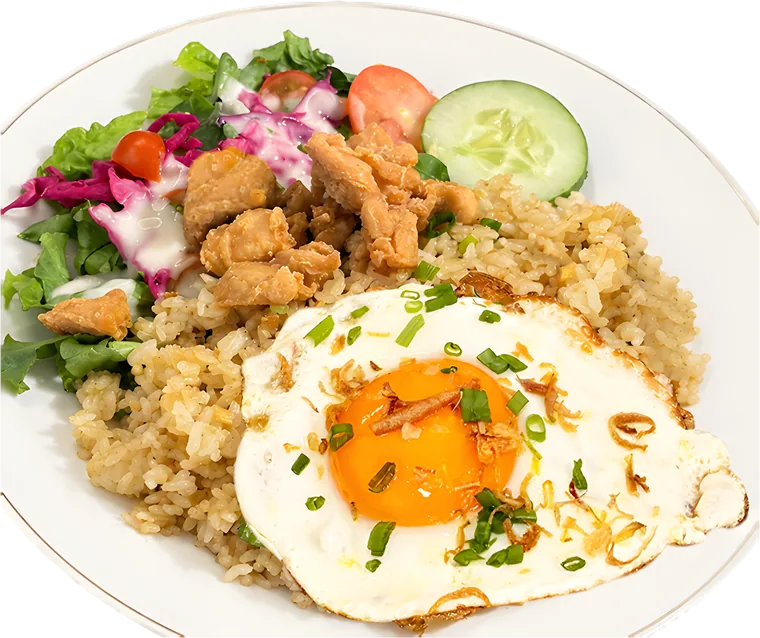
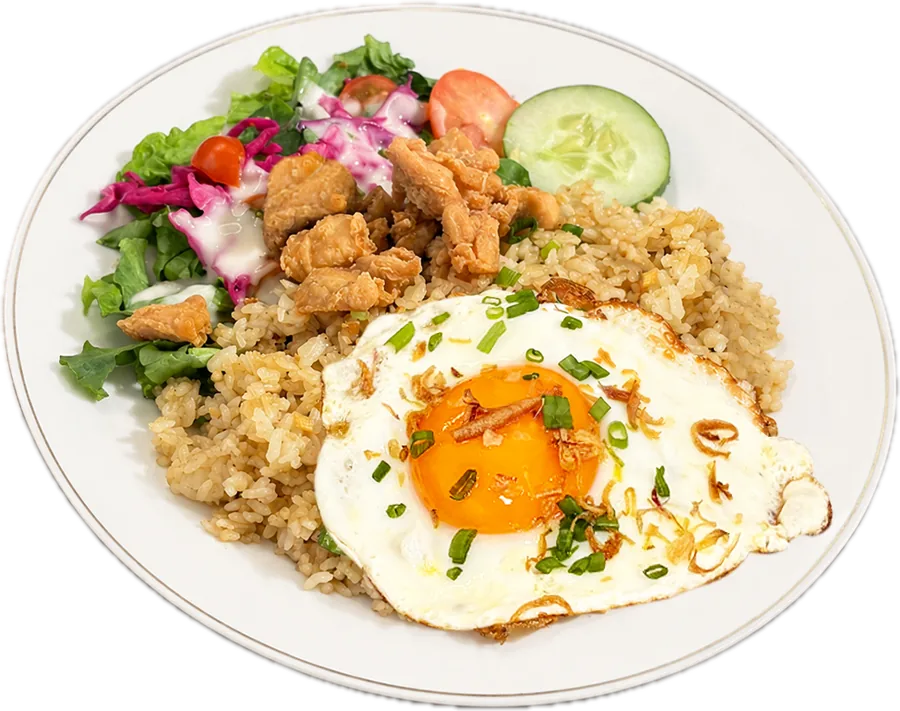
Foto produk baru dengan latar dihapus
14 foto produk baru dan Easy-Nasgor versi revisi, dipotong dari foto asli dan disimpan sebagai WebP beralfa. 22 dari 40 produk sekarang punya foto.

Simpanan lama di browser diisi fotonya satu kali lewat fillPhotos(), tanpa menimpa foto unggahan admin.

diff --git a/src/store.ts b/src/store.ts
@@ -66,6 +66,12 @@ const rupiah = (p: string) => Math.round(parseFloat(p.replace(',', '.')) * 1000)
 const PHOTO: Record<string, [string, Mat]> = {
   'Coffee Cloud': ['p-coffee-cloud', 'green'], 'Oolong Cloud': ['p-oolong-cloud', 'concrete'], 'RTD Decaf': ['p-rtd-decaf', 'steel'], 'Sunset Soother': ['p-rtd-sunset', 'steel'],
   'Easy-Nasgor': ['c-easy-nasgor', 'steel'], 'Beef-Sando': ['c-beef-sando', 'ply'], 'Pad Kra Pao': ['c-pad-kra-pao', 'concrete'], 'Real Potato Fries': ['c-fries', 'green'],
+  'RTD Classic': ['p-rtd-classic', 'green'], 'RTD Fruity': ['p-rtd-fruity', 'concrete'], 'Sunrise Booster': ['p-sunrise-booster', 'ply'],
+  'Mont Blanc': ['p-mont-blanc', 'steel'], 'Dirty Latte': ['p-dirty-latte', 'concrete'], 'Matcha Latte': ['p-matcha-latte', 'ply'],
+  'Iced Shaken Honey Lemon Tea': ['p-iced-shaken-honey-lemon-tea', 'steel'],
+  'Nanban Chicken With Rice': ['c-nanban-chicken-with-rice', 'steel'], 'Coffee Parfait': ['c-coffee-parfait', 'concrete'], 'Sweet Waffle': ['c-sweet-waffle', 'green'],
+  'Salad With Pan-seared Chicken': ['c-salad-with-pan-seared-chicken', 'steel'], 'Sesame-Pasta': ['c-sesame-pasta', 'ply'],
+  'Enoki Fries': ['c-enoki-fries', 'concrete'], 'Soft-Panna': ['c-soft-panna', 'ply'],
 }
 const LINE: Record<string, string> = {
   'Coffee Cloud': 'Kopi susu di bawah, awan di atas.', 'Easy-Nasgor': 'Nasi goreng mentega plus telur. Beres.',
@@ -133,10 +139,18 @@ export function seed(): Store {
 }
 
 const KEY = 'gb-store-v2'
+// Simpanan lama belum tahu foto baru. Sekali per browser, isi foto produk bawaan yang masih kosong
+// (foto unggahan admin tidak disentuh, dan foto yang sengaja dihapus admin tidak dipasang lagi sesudahnya).
+const PHOTO_V = 'gb-photo-v1'
+function fillPhotos(items: Item[]): Item[] {
+  try { if (localStorage.getItem(PHOTO_V)) return items; localStorage.setItem(PHOTO_V, '1') } catch { return items }
+  return items.map(p => { const f = !p.img && PHOTO[p.name]; return f ? { ...p, img: f[0], mat: f[1] } : p })
+}
+
 function load(): Store {
   try {
     const s = JSON.parse(localStorage.getItem(KEY) ?? '')
-    if (Array.isArray(s.items)) return { ...seed(), ...s }
+    if (Array.isArray(s.items)) return { ...seed(), ...s, items: fillPhotos(s.items) }
   } catch { /* belum ada simpanan atau isinya rusak: pakai data bawaan */ }
   return seed()
 }
